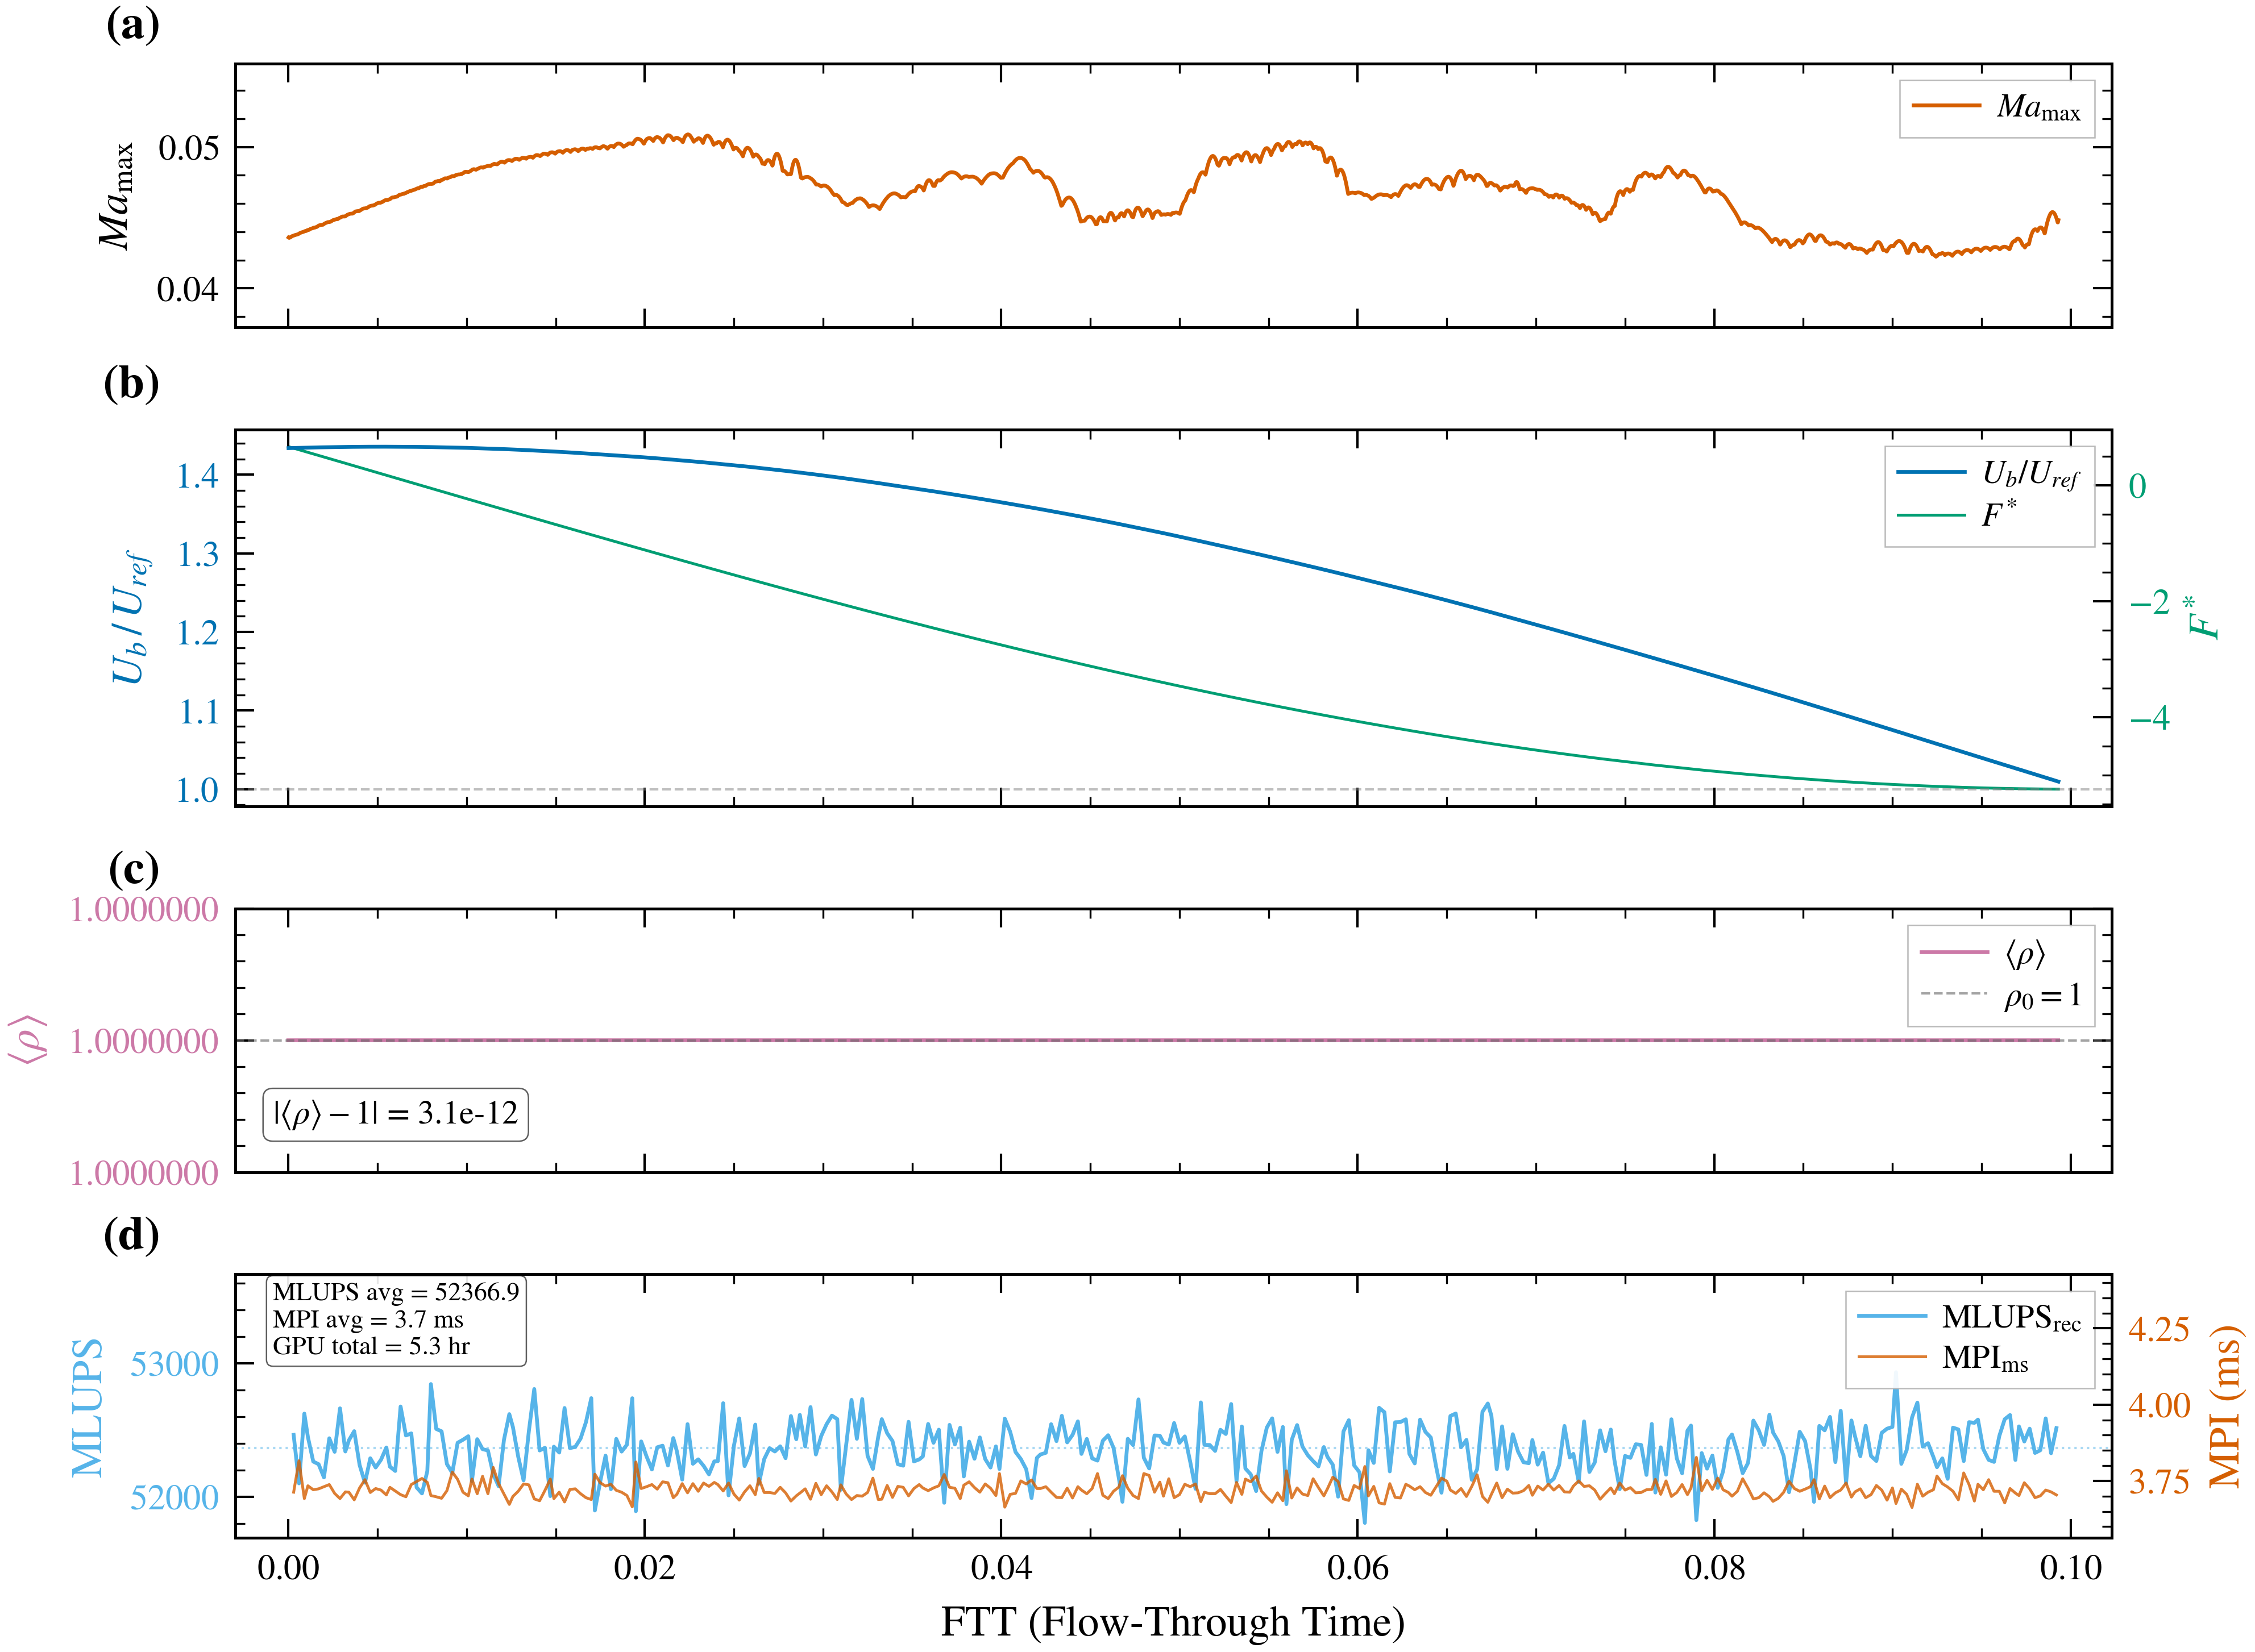
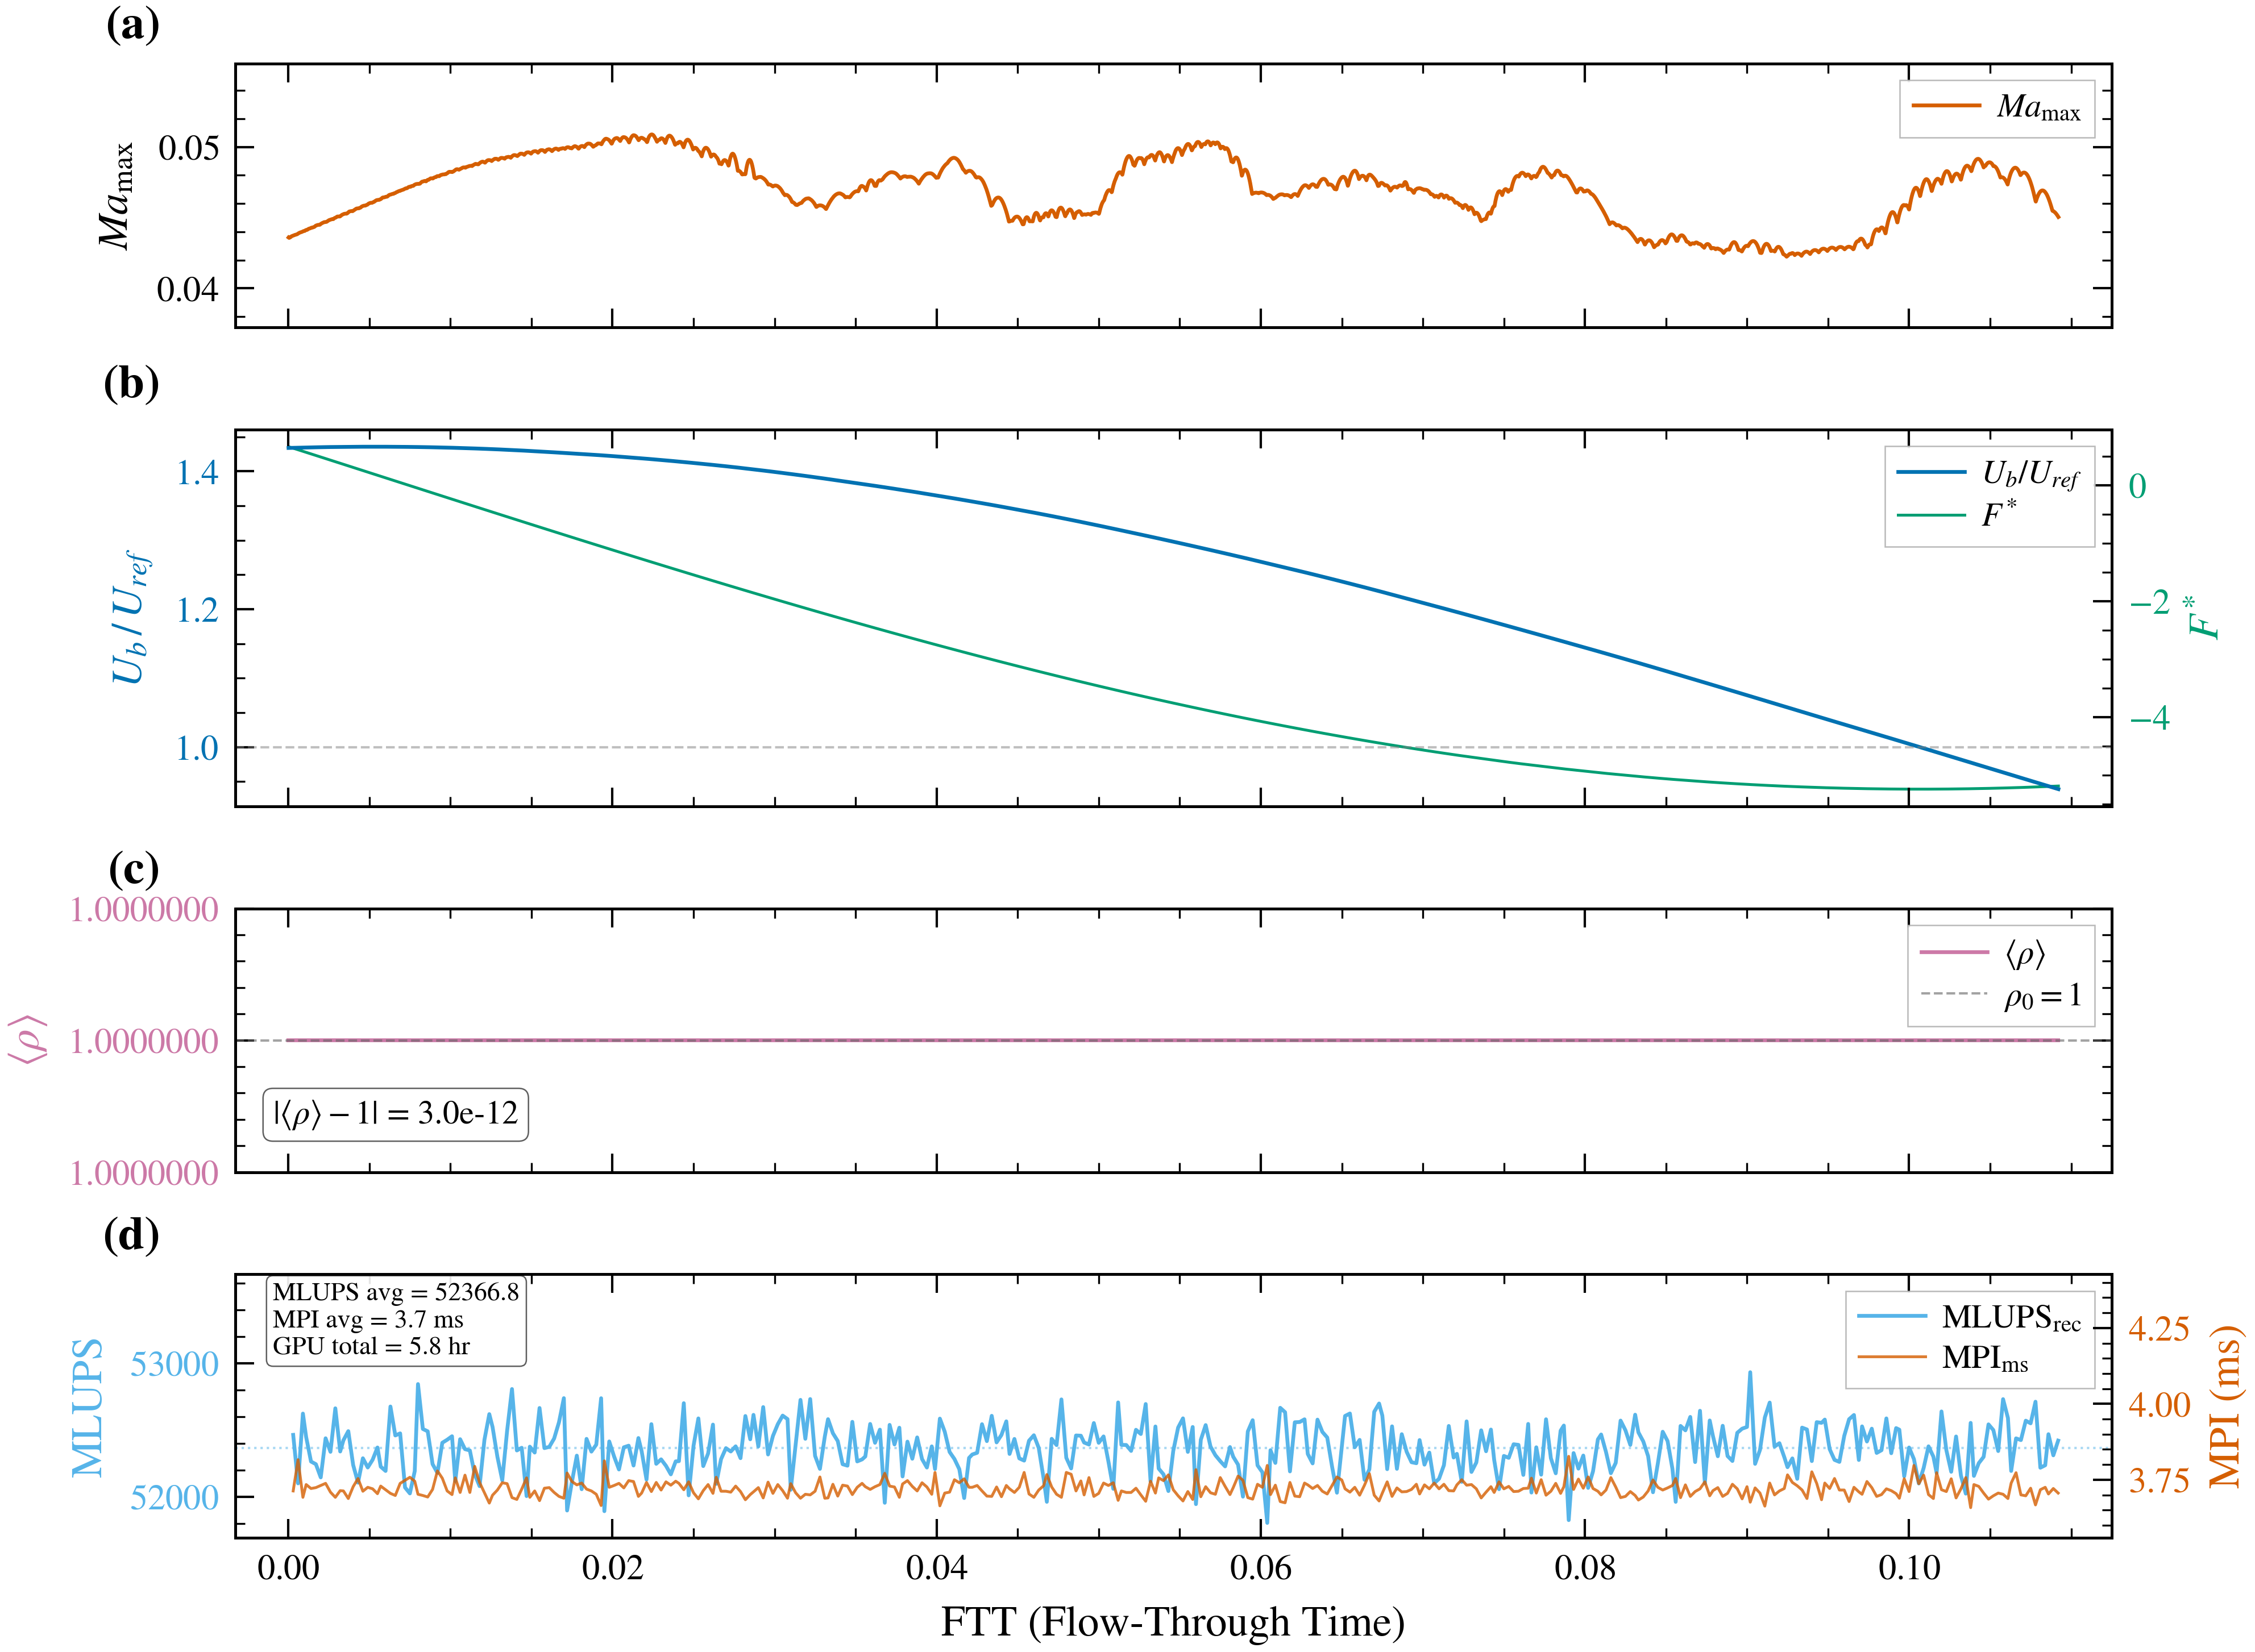
auto commit

diff --git a/animation/gif_encode.py b/animation/gif_encode.py
@@ -1,0 +1,152 @@
+#!/usr/bin/env python3
+# -*- coding: utf-8 -*-
+"""
+gif_encode.py — 全場 GIF 動畫編碼 (ADDITIVE, 不動 video_encode_mp4.py)
+=====================================================================
+從 png_frames/ 的 frame_NNNNNN_<suffix>.png 序列, 用 ffmpeg 兩段式
+單一全域調色盤 (palettegen stats_mode=full → paletteuse) 編成 GIF。
+
+- 單一全域調色盤 → 跨幀顏色一致 (配合 render_frame.py --u-range 固定色階, 消閃爍)。
+- 20 fps = 每幀 0.05s = 5 centisecond, GIF delay 可精確表示。
+- 預設只取「等間隔 (固定 stride) 的最長連續 run」→ 保證影格時間間隔一致
+  (相隔固定 step 數的 VTK), 避免 rolling-purge 造成的跳幀使動畫忽快忽慢。
+
+用法:
+  python3 gif_encode.py --frames-dir animation/png_frames \\
+      --suffix cont    --out animation/flow_cont.gif --fps 20 --width 1600
+  python3 gif_encode.py --frames-dir animation/png_frames \\
+      --suffix RD_cont --out animation/flow_RD.gif   --fps 20 --width 1600
+
+suffix:
+  cont    → 連續 KEY_COLORS 配色 (frame_NNNNNN_cont.png, 排除 _RD_cont)
+  RD_cont → 連續 Rainbow Desaturated 配色 (frame_NNNNNN_RD_cont.png)
+"""
+import os, sys, re, glob, argparse, subprocess, shutil
+
+FFMPEG_DEFAULT = "/work/s8313697/software/ffmpeg-7.0.2-amd64-static/ffmpeg"
+
+
+def find_ffmpeg(override):
+    for c in (override, FFMPEG_DEFAULT, shutil.which("ffmpeg")):
+        if c and os.path.isfile(c):
+            return c
+    return None
+
+
+def collect(frames_dir, suffix):
+    """回傳 [(step:int, path:str)] 依 step 排序。
+    cont 與 RD_cont 用精確 regex 區分 (避免 *_cont.png 同時吃到 *_RD_cont.png)。"""
+    if suffix == "cont":
+        pat = re.compile(r"^frame_(\d+)_cont\.png$")
+    elif suffix in ("RD_cont", "RD-cont"):
+        pat = re.compile(r"^frame_(\d+)_RD_cont\.png$")
+    else:
+        pat = re.compile(r"^frame_(\d+)_%s\.png$" % re.escape(suffix))
+    out = []
+    for f in os.listdir(frames_dir):
+        m = pat.match(f)
+        if m:
+            out.append((int(m.group(1)), os.path.join(frames_dir, f)))
+    out.sort(key=lambda x: x[0])
+    return out
+
+
+def longest_uniform_run(items):
+    """從 [(step,path)] 取「固定 stride 的最長連續 run」。
+    stride = 相鄰 step 差的眾數。回傳 (run_items, stride)。"""
+    if len(items) <= 1:
+        return items, None
+    steps = [s for s, _ in items]
+    diffs = [steps[i + 1] - steps[i] for i in range(len(steps) - 1)]
+    # 眾數 stride
+    stride = max(set(diffs), key=diffs.count)
+    best, cur = [items[0]], [items[0]]
+    for i in range(1, len(items)):
+        if steps[i] - steps[i - 1] == stride:
+            cur.append(items[i])
+        else:
+            if len(cur) > len(best):
+                best = cur
+            cur = [items[i]]
+    if len(cur) > len(best):
+        best = cur
+    return best, stride
+
+
+def main():
+    ap = argparse.ArgumentParser(description="PNG 序列 -> GIF (單一全域調色盤, ADDITIVE)")
+    ap.add_argument("--frames-dir", required=True)
+    ap.add_argument("--suffix", required=True, help="cont | RD_cont")
+    ap.add_argument("--out", required=True)
+    ap.add_argument("--fps", type=int, default=20)
+    ap.add_argument("--width", type=int, default=1600, help="GIF 寬 (px), 高依比例 (default 1600)")
+    ap.add_argument("--ffmpeg", default=None)
+    ap.add_argument("--no-uniform", action="store_true",
+                    help="不修剪成等間隔連續 run (預設會修剪以保證影格間隔一致)")
+    ap.add_argument("--bayer-scale", type=int, default=3)
+    args = ap.parse_args()
+
+    ff = find_ffmpeg(args.ffmpeg)
+    if not ff:
+        print("[gif] ERROR: ffmpeg not found", flush=True); sys.exit(2)
+    if not os.path.isdir(args.frames_dir):
+        print("[gif] ERROR: frames-dir not found: %s" % args.frames_dir, flush=True); sys.exit(3)
+
+    items = collect(args.frames_dir, args.suffix)
+    if not items:
+        print("[gif] ERROR: no frames matching suffix '%s' in %s" % (args.suffix, args.frames_dir),
+              flush=True); sys.exit(4)
+
+    if not args.no_uniform:
+        run, stride = longest_uniform_run(items)
+        if len(run) < len(items):
+            print("[gif] WARN: %d frames total but longest uniform-stride(=%s) run = %d; "
+                  "using the uniform run only (影格間隔一致)." % (len(items), stride, len(run)),
+                  flush=True)
+        items = run
+    steps = [s for s, _ in items]
+    print("[gif] suffix=%s frames=%d steps=[%d..%d] stride=%s -> %s" % (
+        args.suffix, len(items), steps[0], steps[-1],
+        (steps[1] - steps[0]) if len(steps) > 1 else "-", args.out), flush=True)
+
+    # 連續編號 symlink → ffmpeg image2 demuxer 穩定排序
+    tmp = os.path.join(args.frames_dir, ".gif_tmp_%s" % args.suffix)
+    if os.path.isdir(tmp):
+        shutil.rmtree(tmp)
+    os.makedirs(tmp)
+    for k, (_, p) in enumerate(items):
+        os.symlink(os.path.abspath(p), os.path.join(tmp, "seq_%05d.png" % k))
+
+    palette = os.path.join(tmp, "palette.png")
+    scale = "scale=%d:-2:flags=lanczos" % args.width
+    out_abs = os.path.abspath(args.out)
+    os.makedirs(os.path.dirname(out_abs), exist_ok=True)
+
+    try:
+        # pass 1: 全域調色盤
+        p1 = [ff, "-y", "-framerate", str(args.fps),
+              "-i", os.path.join(tmp, "seq_%05d.png"),
+              "-vf", "%s,palettegen=stats_mode=full" % scale, palette]
+        r = subprocess.run(p1, stdout=subprocess.DEVNULL, stderr=subprocess.PIPE)
+        if r.returncode != 0:
+            print("[gif] ERROR palettegen rc=%d\n%s" % (r.returncode, r.stderr.decode("utf-8", "ignore")[-800:]),
+                  flush=True); sys.exit(5)
+        # pass 2: 套用調色盤 -> GIF (無限迴圈播放)
+        p2 = [ff, "-y", "-framerate", str(args.fps),
+              "-i", os.path.join(tmp, "seq_%05d.png"), "-i", palette,
+              "-lavfi", "%s[x];[x][1:v]paletteuse=dither=bayer:bayer_scale=%d:diff_mode=rectangle"
+              % (scale, args.bayer_scale),
+              "-loop", "0", out_abs]
+        r = subprocess.run(p2, stdout=subprocess.DEVNULL, stderr=subprocess.PIPE)
+        if r.returncode != 0:
+            print("[gif] ERROR paletteuse rc=%d\n%s" % (r.returncode, r.stderr.decode("utf-8", "ignore")[-800:]),
+                  flush=True); sys.exit(6)
+    finally:
+        shutil.rmtree(tmp, ignore_errors=True)
+
+    sz = os.path.getsize(out_abs) / 1048576.0
+    print("[gif] DONE %s  (%d frames @ %d fps, %.1f MB)" % (out_abs, len(items), args.fps, sz), flush=True)
+
+
+if __name__ == "__main__":
+    main()

diff --git a/animation/gif_render_loop.py b/animation/gif_render_loop.py
@@ -1,0 +1,144 @@
+#!/usr/bin/env python3
+# -*- coding: utf-8 -*-
+"""
+gif_render_loop.py — 全場 GIF 批次渲染 driver (lbm-render-1 快路徑)
+==================================================================
+依 CLAUDE.md「全場 GIF 動畫設定」+ 使用者更正:
+  * 用 lbm-render-1 快路徑 (render_frame.py --slice-only, fast_slice X=mid 薄板),
+    不用耗時的完整 lbm-render (跳過 Path D Q-criterion 三維)。
+  * 固定 u_streamwise 色階 [--u-range] → 跨幀統一, 消閃爍。
+  * 兩組連續配色: cont (KEY_COLORS) + RD_cont (Rainbow Desaturated)。
+  * 影格等間隔: 逐顆「連續」complete VTK 各渲一幀 (stride 固定), 由舊到新先抓
+    (舊檔最快被 rolling-purge), 確保不挖洞、時間間隔一致。
+  * 累積到 TARGET 幀後停; 期間每 ENCODE_EVERY 幀重編一次 2 個 GIF 供預覽。
+
+不修改 video_encode_mp4.py / pipeline.py 的 MP4 流程 (本檔為追加)。
+不觸碰任何 Slurm job / restart / checkpoint。
+"""
+import os, sys, re, glob, time, subprocess
+
+ROOT = "/home/s8313697/5.Re10595/Edit7_10595SNS"
+PV = "/work/s8313697/software/ParaView-5.12.1-osmesa-MPI-Linux-Python3.10-x86_64/bin/pvbatch"
+RENDER = os.path.join(ROOT, "animation", "render_frame.py")
+GIF_ENC = os.path.join(ROOT, "animation", "gif_encode.py")
+FRAMES_DIR = os.path.join(ROOT, "animation", "png_frames")
+RESULT_DIR = os.path.join(ROOT, "result")
+LOG = os.path.join(ROOT, "animation", "gif_render_loop.log")
+
+TARGET = int(os.environ.get("GIF_TARGET", "100"))
+UMIN, UMAX = -2.0, 2.0
+WIDTH = int(os.environ.get("GIF_WIDTH", "1600"))
+FPS = int(os.environ.get("GIF_FPS", "20"))
+FULL_MIN = 17_000_000_000        # 完整 17.36GB; 半截檔 (<17GB) 視為未寫完
+POLL = 15                        # s, 等新 VTK 的輪詢間隔
+PER_FRAME_TIMEOUT = 360          # s, 單幀渲染上限
+MAX_WALL = 3 * 3600 + 1800       # s, 全程上限 (3.5h) 防 solver 停擺時無限等
+ENCODE_EVERY = 10                # 每渲滿幾幀重編一次 GIF 預覽
+
+OUT_CONT = os.path.join(ROOT, "animation", "flow_cont.gif")
+OUT_RD = os.path.join(ROOT, "animation", "flow_RD.gif")
+
+_re_step = re.compile(r"velocity_merged_(\d+)\.vtk$")
+
+
+def log(msg):
+    line = "[%s] %s" % (time.strftime("%Y-%m-%d %H:%M:%S"), msg)
+    print(line, flush=True)
+    try:
+        with open(LOG, "a") as f:
+            f.write(line + "\n")
+    except OSError:
+        pass
+
+
+def complete_vtks():
+    out = []
+    for f in glob.glob(os.path.join(RESULT_DIR, "velocity_merged_*.vtk")):
+        m = _re_step.search(f)
+        if not m:
+            continue
+        try:
+            sz = os.path.getsize(f)
+        except OSError:
+            continue
+        if sz >= FULL_MIN:
+            out.append((int(m.group(1)), f))
+    out.sort()
+    return out
+
+
+def is_rendered(step):
+    return (os.path.isfile(os.path.join(FRAMES_DIR, "frame_%06d_cont.png" % step)) and
+            os.path.isfile(os.path.join(FRAMES_DIR, "frame_%06d_RD_cont.png" % step)))
+
+
+def render_one(step, vtk):
+    t0 = time.time()
+    cmd = [PV, RENDER, vtk, "--slice-only", "--step", str(step),
+           "--outdir", FRAMES_DIR, "--u-range", str(UMIN), str(UMAX)]
+    try:
+        r = subprocess.run(cmd, stdout=subprocess.DEVNULL, stderr=subprocess.PIPE,
+                           timeout=PER_FRAME_TIMEOUT)
+    except subprocess.TimeoutExpired:
+        log("  render step=%d TIMEOUT (>%ds)" % (step, PER_FRAME_TIMEOUT))
+        return False
+    dt = time.time() - t0
+    ok = (r.returncode == 0) and is_rendered(step)
+    if not ok:
+        tail = r.stderr.decode("utf-8", "ignore")[-300:] if r.stderr else ""
+        log("  render step=%d FAILED rc=%d %.1fs %s" % (step, r.returncode, dt, tail))
+    else:
+        log("  render step=%d OK %.1fs" % (step, dt))
+    return ok
+
+
+def encode_gifs(nframes):
+    for suffix, out in (("cont", OUT_CONT), ("RD_cont", OUT_RD)):
+        cmd = ["python3", GIF_ENC, "--frames-dir", FRAMES_DIR, "--suffix", suffix,
+               "--out", out, "--fps", str(FPS), "--width", str(WIDTH)]
+        try:
+            r = subprocess.run(cmd, stdout=subprocess.PIPE, stderr=subprocess.STDOUT,
+                               timeout=600)
+            msg = r.stdout.decode("utf-8", "ignore").strip().splitlines()
+            log("  encode %s rc=%d :: %s" % (suffix, r.returncode, msg[-1] if msg else ""))
+        except subprocess.TimeoutExpired:
+            log("  encode %s TIMEOUT" % suffix)
+
+
+def main():
+    os.makedirs(FRAMES_DIR, exist_ok=True)
+    rendered = set()
+    for f in os.listdir(FRAMES_DIR):
+        m = re.match(r"frame_(\d+)_cont\.png$", f)
+        if m and is_rendered(int(m.group(1))):
+            rendered.add(int(m.group(1)))
+    log("START target=%d  already-rendered=%d  width=%d fps=%d range=[%.1f,%.1f]" %
+        (TARGET, len(rendered), WIDTH, FPS, UMIN, UMAX))
+
+    start = time.time()
+    last_enc = len(rendered)
+    while len(rendered) < TARGET and (time.time() - start) < MAX_WALL:
+        progressed = False
+        for step, vtk in complete_vtks():       # ascending: 由舊到新先抓 (舊的最快被 purge)
+            if len(rendered) >= TARGET:
+                break
+            if step in rendered:
+                continue
+            if is_rendered(step):
+                rendered.add(step); continue
+            if render_one(step, vtk):
+                rendered.add(step)
+                progressed = True
+                log("PROGRESS %d/%d (step=%d)" % (len(rendered), TARGET, step))
+                if len(rendered) - last_enc >= ENCODE_EVERY:
+                    encode_gifs(len(rendered)); last_enc = len(rendered)
+        if len(rendered) < TARGET and not progressed:
+            time.sleep(POLL)
+
+    log("RENDER LOOP DONE: %d frames (target %d). Final encode..." % (len(rendered), TARGET))
+    encode_gifs(len(rendered))
+    log("ALL DONE. GIFs: %s | %s" % (OUT_CONT, OUT_RD))
+
+
+if __name__ == "__main__":
+    main()

diff --git a/animation/render_frame.py b/animation/render_frame.py
@@ -25,6 +25,8 @@ VIDEO_MODE = False      # True = 影片模式 (只吐 frame_cont + frame_RD)
                         # False = 人工模式 (8 張 PNG 全輸出)
 SLICE_ONLY = False      # True = lbm-render-1 快路徑: 只抽 X=mid 薄板, 跳過 Path D (Q 三維)
                         #        用 fast_slice.py 把 17GB → 數十 MB, 載入秒級, 效果與 Path A/B/C 逐點一致
+U_RANGE = None          # (vmin, vmax) = 固定 u_streamwise 色階範圍 (--u-range vmin vmax)
+                        #        全場 GIF 用: 跨幀統一色階, 消除逐幀自動重縮造成的閃爍
 
 args = sys.argv[1:]
 i = 0
@@ -37,6 +39,8 @@ while i < len(args):
         VIDEO_MODE = True; i += 1
     elif args[i] in ("--slice-only", "--no-q", "--fast"):
         SLICE_ONLY = True; i += 1
+    elif args[i] == "--u-range" and i+2 < len(args):
+        U_RANGE = (float(args[i+1]), float(args[i+2])); i += 3
     elif not args[i].startswith("--"):
         VTK_FILE = os.path.abspath(args[i]); i += 1
     else:
@@ -658,7 +662,11 @@ if infoA:
     hi_A = infoA.GetComponentRange(0)[1]
 else:
     lo_A, hi_A = 0.0, 1.0
-log("u_streamwise range: [%.4f, %.4f]" % (lo_A, hi_A))
+if U_RANGE is not None:
+    lo_A, hi_A = U_RANGE
+    log("u_streamwise range: [%.4f, %.4f] (FIXED via --u-range, 跨幀統一色階)" % (lo_A, hi_A))
+else:
+    log("u_streamwise range: [%.4f, %.4f]" % (lo_A, hi_A))
 
 lutA.ColorSpace = "Step"
 lutA.RGBPoints = build_rgb_points(lo_A, hi_A, KEY_COLORS)